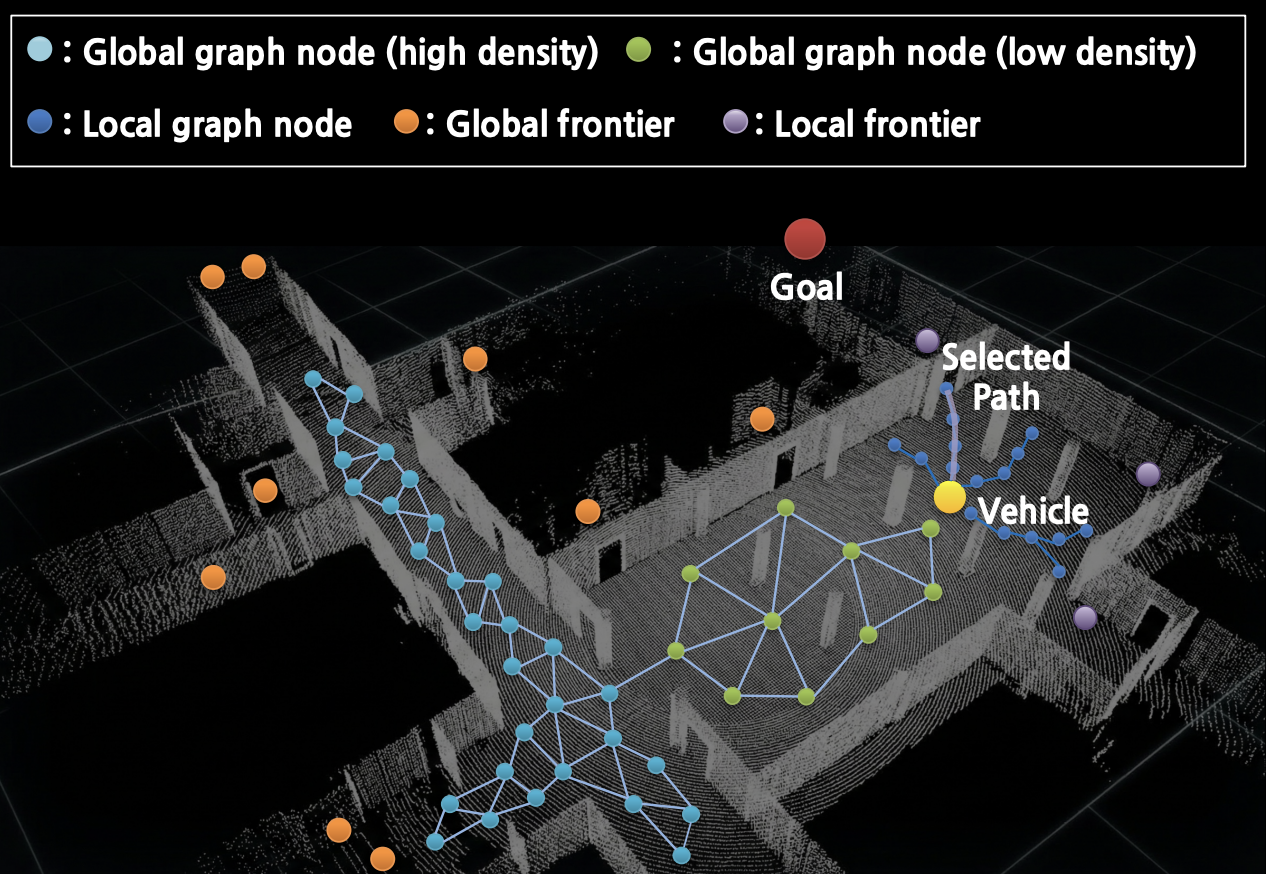
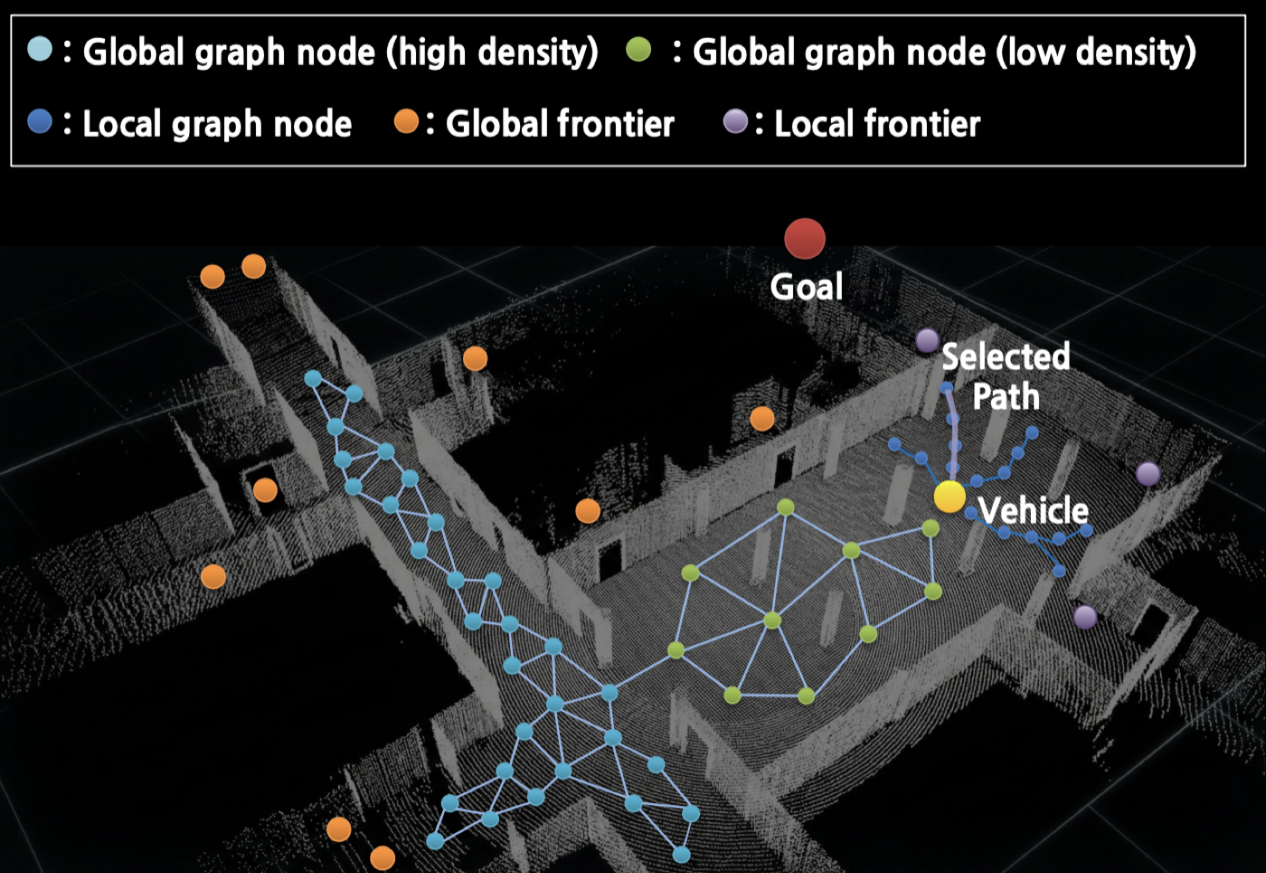
Add publication abstracts, fix image display, and shrink base font size
Drop the "Recommended citation" blurb from both the card list and the
detail page, and add real abstracts to the two publications so the
detail page shows something meaningful instead.

Fix image display: avatar and teaser images were built for
square/uniform-aspect source images, which caused the non-square
profile photo to look squashed under the circular crop and made
grid cards uneven when publication/project images had mismatched
aspect ratios. Use object-fit (cover for the avatar, contain for
teasers) so any source image displays cleanly without needing to be
pre-cropped. Also downsize visky.png (10.5MB -> ~2.8MB) and correct
an accidental upscale of FPAS.png.

Lower the base html font-size by 2px (16/18 -> 14/16) so all rem-based
type scales down proportionally site-wide.

diff --git a/_includes/archive-single.html b/_includes/archive-single.html
@@ -52,33 +52,5 @@
     <p class="archive__item-excerpt" itemprop="description"><p>{{ post.excerpt | markdownify | remove: '<p>' | remove: '</p>' }}<strong><a href="{{ base_path }}{{ post.url }}" rel="permalink"> Read more</a></strong></p></p>
     {% endif %}
     
-    {% if post.citation and post.paperurl and post.slidesurl and post.bibtexurl %}
-      <p>Recommended citation: {{ post.citation }}<br /><a href="{{ post.paperurl }}">Download Paper</a> | <a href="{{ post.slidesurl }}">Download Slides</a> | <a href="{{ post.bibtexurl }}">Download Bibtex</a></p>
-    {% elsif post.citation and post.paperurl and post.slidesurl %}
-      <p>Recommended citation: {{ post.citation }}<br /><a href="{{ post.paperurl }}">Download Paper</a> | <a href="{{ post.slidesurl }}">Download Slides</a></p>
-    {% elsif post.citation and post.paperurl and post.bibtexurl %}
-      <p>Recommended citation: {{ post.citation }}<br /><a href="{{ post.paperurl }}">Download Paper</a> | <a href="{{ post.bibtexurl }}">Download Bibtex</a></p>
-    {% elsif post.citation and post.paperurl %}
-      <p>Recommended citation: {{ post.citation }}<br /><a href="{{ post.paperurl }}">Download Paper</a></p>
-    {% elsif post.citation and post.slidesurl and post.bibtexurl %}
-      <p>Recommended citation: {{ post.citation }}<br /><a href="{{ post.slidesurl }}">Download Slides</a> | <a href="{{ post.bibtexurl}}">Download Bibtex</a></p>
-    {% elsif post.citation and post.slidesurl %}
-      <p>Recommended citation: {{ post.citation }}<br /><a href="{{ post.slidesurl }}">Download Slides</a></p>
-    {% elsif post.citation and post.bibtexurl %}
-      <p>Recommended citation: {{ post.citation }}<br /><a href="{{ post.bibtexurl }}">Download Bibtex</a></p>
-    {% elsif post.citation %}
-      <p>Recommended citation: {{ post.citation }}</p>
-    {% elsif post.paperurl and post.bibtexurl %}
-      <p><a href="{{ post.paperurl }}">Download Paper</a> | <a href="{{ post.bibtexurl }}">Download Bibtex</a></p>
-    {% elsif post.paperurl %}
-      <p><a href="{{ post.paperurl }}">Download Paper</a></p>
-    {% elsif post.slidesurl and post.bibtexurl %}
-      <p><a href="{{ post.slidesurl }}">Download Slides</a> | <a href="{{ post.bibtexurl }}">Download Bibtex</a></p>
-    {% elsif post.slidesurl %}
-      <p><a href="{{ post.slidesurl }}">Download Slides</a></p>
-    {% elsif post.bibtexurl %}
-      <p><a href="{{ post.bibtexurl }}">Download Bibtex</a></p>
-    {% endif %}
-
   </article>
 </div>

diff --git a/_layouts/single.html b/_layouts/single.html
@@ -47,32 +47,6 @@ layout: default
       <section class="page__content" itemprop="text">
         {{ content }}
 
-        {% if page.citation and page.paperurl and page.slidesurl and page.bibtexurl %}
-          <p style="font-size: smaller">Recommended citation: {{ page.citation }}<br /><a href="{{ page.paperurl }}">Download Paper</a> | <a href="{{ page.slidesurl }}">Download Slides</a> | <a href="{{ page.bibtexurl }}">Download Bibtex</a></p>
-        {% elsif page.citation and page.paperurl and page.slidesurl %}
-          <p style="font-size: smaller">Recommended citation: {{ page.citation }}<br /><a href="{{ page.paperurl }}">Download Paper</a> | <a href="{{ page.slidesurl }}">Download Slides</a></p>
-        {% elsif page.citation and page.paperurl and page.bibtexurl %}
-          <p style="font-size: smaller">Recommended citation: {{ page.citation }}<br /><a href="{{ page.paperurl }}">Download Paper</a> | <a href="{{ page.bibtexurl }}">Download Bibtex</a></p>
-        {% elsif page.citation and page.paperurl %}
-          <p style="font-size: smaller">Recommended citation: {{ page.citation }}<br /><a href="{{ page.paperurl }}">Download Paper</a></p>
-        {% elsif page.citation and page.slidesurl and page.bibtexurl %}
-          <p style="font-size: smaller">Recommended citation: {{ page.citation }}<br /><a href="{{ page.slidesurl }}">Download Slides</a> | <a href="{{ page.bibtexurl }}">Download Bibtex</a></p>
-        {% elsif page.citation and page.slidesurl %}
-          <p style="font-size: smaller">Recommended citation: {{ page.citation }}<br /><a href="{{ page.slidesurl }}">Download Slides</a></p>
-        {% elsif page.slidesurl and page.bibtexurl %}
-          <p style="font-size: smaller"><a href="{{ page.slidesurl }}">Download Slides</a> | <a href="{{ page.bibtexurl }}">Download Bibtex</a></p>
-        {% elsif page.paperurl and page.bibtexurl %}
-          <p style="font-size: smaller"><a href="{{ page.paperurl }}">Download Paper</a> | <a href="{{ page.bibtexurl }}">Download Bibtex</a></p>
-        {% elsif page.citation and page.bibtexurl %}
-          <p style="font-size: smaller">Recommended citation: {{ page.citation }}<br /><a href="{{ page.bibtexurl }}">Download Bibtex</a></p>
-        {% elsif page.citation %}
-          <p style="font-size: smaller">Recommended citation: {{ page.citation }}</p>
-        {% elsif page.slidesurl %}
-          <p style="font-size: smaller"><a href="{{ page.slidesurl }}">Download Slides</a></p>
-        {% elsif page.bibtexurl %}
-          <p style="font-size: smaller"><a href="{{ page.bibtexurl }}">Download Bibtex</a></p>
-        {% endif %}
-
         {% if page.link %}<div><a href="{{ page.link }}" class="btn">{{ site.data.ui-text[site.locale].ext_link_label | default: "Direct Link" }}</a></div>{% endif %}
       </section>
 

diff --git a/_sass/layout/_archive.scss b/_sass/layout/_archive.scss
@@ -67,10 +67,18 @@
 }
 
 .archive__item-teaser {
+  position: relative;
+  height: 200px;
   border-radius: $border-radius;
   overflow: hidden;
+  background-color: var(--global-bg-color);
   img {
+    position: absolute;
+    top: 0;
+    left: 0;
     width: 100%;
+    height: 100%;
+    object-fit: contain;
   }
 }
 

diff --git a/_sass/layout/_reset.scss b/_sass/layout/_reset.scss
@@ -8,10 +8,10 @@ html {
   /* apply a natural box layout model to all elements */
   box-sizing: border-box;
   background-color: var(--global-bg-color);
-  font-size: 16px;
+  font-size: 14px;
 
   @include breakpoint($medium) {
-    font-size: 18px;
+    font-size: 16px;
   }
 
   -webkit-text-size-adjust: 100%;

diff --git a/_sass/layout/_sidebar.scss b/_sass/layout/_sidebar.scss
@@ -154,7 +154,10 @@
   }
 
   img {
+    width: 175px;
+    height: 175px;
     max-width: 175px;
+    object-fit: cover;
     border-radius: 50%;
 
     @include breakpoint($large) {

diff --git a/_publications/2026-06-22-fpas-frontier-based-path-planning.md b/_publications/2026-06-22-fpas-frontier-based-path-planning.md
@@ -9,3 +9,7 @@ header:
   teaser: "FPAS.png"
 citation: 'Choi, J., Lee, Y., Kim, J.-T., Bae, J., Seo, S.-W. (2026). &quot;FPAS: Frontier-Based Path Planning with Adaptive Sampling for Large-Scale Unknown Environments.&quot; <i>IEEE/RSJ International Conference on Intelligent Robots and Systems (IROS)</i>.'
 ---
+
+**Abstract**
+
+In this work, we propose Frontier-based Path Planning with Adaptive Sampling (FPAS), a novel framework designed for efficient goal-reaching in large-scale, unknown environments. While existing planners often struggle with computational bottlenecks or inefficient paths during long-range navigation, FPAS overcomes these challenges by reinterpreting the frontier concept for goal-directed tasks. Specifically, our method leverages frontiers to effectively guide forward progression into unobserved regions and to select promising subgoals for backtracking from dead-ends or inefficient paths. Furthermore, FPAS introduces an adaptive sampling mechanism based on a frontier-derived openness metric. This mechanism dynamically adjusts the global graph's density by employing sparse nodes in open areas to alleviate computational burdens, while preserving denser sampling in narrow passages to ensure connectivity. Extensive evaluations demonstrate that FPAS substantially improves computational efficiency over baseline methods while maintaining highly competitive goal-reaching performance.

diff --git a/_publications/2026-06-25-ordinal-neural-collapse-visual-navigation.md b/_publications/2026-06-25-ordinal-neural-collapse-visual-navigation.md
@@ -9,3 +9,7 @@ header:
   teaser: "ORION.png"
 citation: 'Son, E.-I.*, Kim, J.-T.*, Seo, S.-W. (2026). &quot;Ordinal Neural Collapse as a Representation Prior for Visual Navigation.&quot; <i>European Conference on Computer Vision (ECCV)</i>. (* Equal contribution)'
 ---
+
+**Abstract**
+
+Learning robust navigation policies directly from visual observations remains a fundamental challenge in vision-based robotic navigation. In end-to-end imitation learning approaches, the visual encoder and action decoder are jointly optimized using a single action loss, which provides only an indirect supervisory signal to the encoder. This indirect supervision frequently results in the encoder learning ambiguous, action-agnostic representations. The problem is further complicated by substantial variations in scene structure and appearance across diverse environments, as well as the prevalence of visual distractors inherent to real-world navigation settings. Such action-agnostic features cause the navigation policy to produce inconsistent actions at ambiguous decision points, leading to navigation failure. To overcome these limitations, we propose ORION (Ordinal Neural Collapse for Visual Navigation), a method that explicitly organizes the encoder's representation space according to the ordinal structure of navigation actions. In the context of goal-directed navigation, ego-centric control categories from Far Left to Far Right exhibit a natural ordinal relationship in which neighboring classes share similar visual contexts, while semantically opposing classes differ substantially in appearance. We encourage class representations to be arranged sequentially along a single discriminative axis, while suppressing off-axis variance within each class. The pretrained encoder is then integrated into a diffusion-based navigation framework, and the full pipeline is fine-tuned end-to-end. Extensive experiments in both simulation and real-world settings show that ORION consistently outperforms end-to-end and neural collapse baselines in navigation success rate and goal progress, with notable gains in visually challenging scenarios such as complex multi-way intersections.